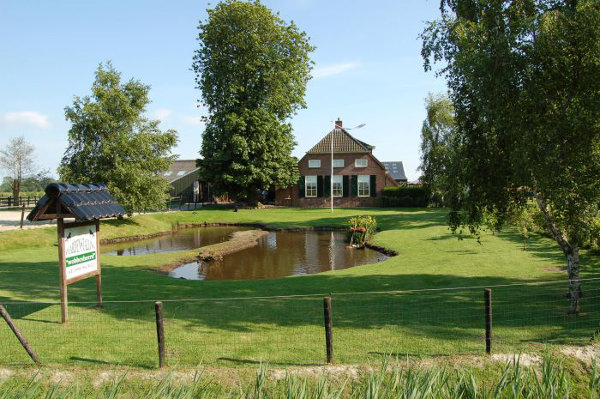
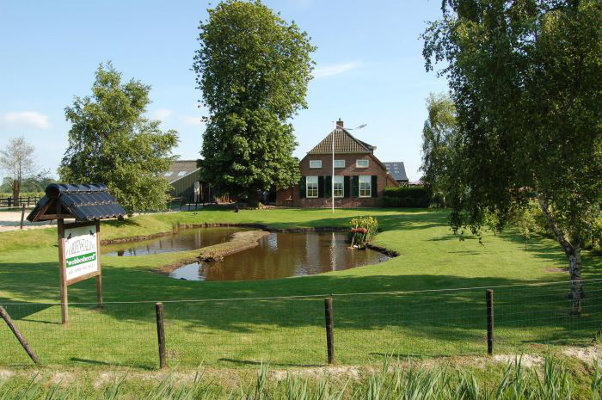
Faciliteiten

diff --git a/faciliteiten.php b/faciliteiten.php
@@ -77,14 +77,17 @@
                         <li data-target="#myCarousel" data-slide-to="6"></li>
                         <li data-target="#myCarousel" data-slide-to="7"></li>
                         <li data-target="#myCarousel" data-slide-to="8"></li>
+						<li data-target="#myCarousel" data-slide-to="9"></li>
+						<li data-target="#myCarousel" data-slide-to="10"></li>
+						<li data-target="#myCarousel" data-slide-to="11"></li>
                     </ol>
 
                     <!-- Wrapper for slides -->
                     <div class="carousel-inner" role="listbox">
                         <div class="item active">
-                            <img src="upload/DSC_0018.jpg" alt="Boederij" width="460" height="345">
+                            <img src="upload/DSC_0018-slide.jpg" alt="Boerderij" title="Boerderij" width="602" height="400">
                             <div class="carousel-caption">
-                                <h3>Boederij</h3>
+                                <h3>Boerderij</h3>
                                 <p>De boerderij is onze droge stek, in het achterste gedeelte ingedeeld in twee ruimtes.</p>
 								<ul>
 									<li>De kantine</li>
@@ -94,70 +97,91 @@
                         </div>
 
                         <div class="item">
-                            <img src="upload/DSC_0004.jpg" alt="Stapmolen" title="Stapmolen" width="460" height="345">
+                            <img src="upload/DSC_0013-slide.jpg" alt="Overdekte rijhal" title="Overdekte rijhal" width="602" height="400">
+                            <div class="carousel-caption">
+                                <h3>Overdekte rijhal</h3>
+                                <p>In de rijhal van 20 x 40 meter kan ten alle tijden gereden worden.</p>
+								<p>In deze hal zijn 20 ruime boxen en een dubbele spoelplaats aanwezig.</p>
+                            </div>
+                        </div>
+
+						<div class="item">
+                            <img src="upload/DSC_0004-slide.jpg" alt="Stapmolen" title="Stapmolen" width="602" height="400">
                             <div class="carousel-caption">
                                 <h3>Stapmolen</h3>
                                 <p>Na het rijden kunnen de paarden uitstappen in de molen.</p>
                             </div>
                         </div>
 
-                        <div class="item">
-                            <img src="upload/DSC_0006.jpg" alt="Groepstal" title="Groepstal" width="460" height="345">
+						<div class="item">
+                            <img src="upload/DSC_0041-slide.jpg" alt="Grote buitenbak" title="Grote buitenbak" width="602" height="400">
                             <div class="carousel-caption">
-                                <h3>Groepstal</h3>
-                                <p>De groepsstal biedt ruimte voor 5 groepen van 8 paarden.</p>
+                                <h3>Grote buitenbak</h3>
+                                <p>De grote rijbak heeft een afmeting van 25 bij 60 meter, omheind met sterke stevige balken. De rijbak is voorzien van  6 lichtmasten om goede rijomstandigheden te garanderen.</p>
                             </div>
                         </div>
 
-
-                        <div class="item">
-                            <img src="upload/DSC_0041.jpg" alt="Rijbak" title="Rijbak" width="460" height="345">
+						<div class="item">
+                            <img src="upload/DSC_0038(1)-slide.jpg" alt="Kleine buitenbak" title="Kleine buitenbak" width="602" height="400">
                             <div class="carousel-caption">
-                                <h3>Rijbak</h3>
-                                <p>De grote rijbak heeft een afmeting van 25 bij 60 meter, omheind met sterke stevige balken.</p>
+                                <h3>Kleine buitenbak</h3>
+                                <p>De 'kleine' bak is niet echt klein (20 bij 40 meter) maar wordt bij ons in de eerste plaats gebruikt om te longeren, de paarden dagelijks te luchten. Er kan natuurlijk ook in gereden worden.</p>
+                            </div>
+                        </div>
+
+						<div class="item">
+                            <img src="upload/DSC_0009-slide.jpg" alt="Paddock" title="Paddock" width="602" height="400">
+                            <div class="carousel-caption">
+                                <h3>Paddock</h3>
+                                <p>De paddock geeft ruimte aan de paarden om hun benen even lekker te strekken. Vooral in de winter kunnen ze dan even lekker luchten.</p>
                             </div>
                         </div>
 
                         <div class="item">
-                            <img src="upload/linkerstal.jpg" alt="indi10" title="indi10" width="460" height="345">
+                            <img src="upload/DSC_0006-slide.jpg" alt="Groepsstal voor jonge paarden" title="Groepsstal voor jonge paarden" width="602" height="400">
                             <div class="carousel-caption">
-                                <h3>Individuele bakken 10</h3>
-                                <p>Deze stal bestaat uit 10 individuele boxen die direct gelegen zijn aan de spoelplaats.</p>
+                                <h3>Groepsstal voor jonge paarden</h3>
+                                <p>Deze huisvesting is bedoeld voor veulens tot 3 jarigen. Elke groep heeft een eigen watervoorziening. Ook deze stal heeft zijn eigen paddock.</p>
                             </div>
                         </div>
 
                         <div class="item">
-                            <img src="upload/DSC_0008.jpg" alt="indi30" title="indi30" width="460" height="345">
+                            <img src="upload/DSC_0014(1)-slide.jpg" alt="Individuele stallen (30 boxen)" title="Individuele stallen (30 boxen)" width="602" height="400">
                             <div class="carousel-caption">
-                                <h3>Individuele bakken 30</h3>
-                                <p>Achter deze geisoleerde stal bevinden zich twee paddocks waar de paarden in de winterperiode dagelijks naar buiten gaan..</p>
+                                <h3>Individuele stallen (30 boxen)</h3>
+                                <p>In deze stal hebben wij 30 ruime boxen. Achter deze geisoleerde stal bevinden zich twee paddocks waar de paarden in de winterperiode dagelijks naar buiten gaan.</p>
                             </div>
                         </div>
 
-
                         <div class="item">
-                            <img src="upload/bakachterschuur.jpg" alt="bak" title="bak" width="460" height="345">
+                            <img src="upload/linkerstal-slide.jpg" alt="Individuele stallen (10 boxen)" title="Individuele stallen (10 boxen)" width="602" height="400">
                             <div class="carousel-caption">
-                                <h3>Achterschuur</h3>
-                                <p>De kleine bak ligt direct aan de stallen en heeft hier tussen ook de buiten spoelplaats liggen.</p>
+                                <h3>Individuele stallen (10 boxen)</h3>
+                                <p>Deze stal bestaat uit 10 individuele boxen bedoeld voor de kleinere paarden en pony's. Ook hebben wij in deze stal een kraambox die voorzien is van een camera.</p>
                             </div>
                         </div>
 
-
                         <div class="item">
-                            <img src="upload/DSC_0007.jpg" alt="Trailer" title="Trailer" width="460" height="345">
+                            <img src="upload/DSC_0002-slide.jpg" alt="Groepsstal" title="Groepsstal" width="602" height="400">
                             <div class="carousel-caption">
-                                <h3>Trailer</h3>
-                                <p>Ja, de trailer, altijd bekend als het apparaat dat altijd in de weg staat en alleen dan gebruikt wordt als de afstand met het paard te groot is.</p>
+                                <h3>Groepsstal</h3>
+                                <p>De ronde stal is een zeer ruime stal waar we een groep van 10-12 paarden zich kunnen huisvesten. Deze groepsstal is bedoeld voor veulens tot 3 jarigen.</p>
                             </div>
                         </div>
 
-
-                        <div class="item">
-                            <img src="upload/DSC_0027(1).jpg" alt="Weide" title="Weide" width="460" height="345">
+						<div class="item">
+                            <img src="upload/DSC_0027(1)-slide.jpg" alt="Weide" title="Weide" width="602" height="400">
                             <div class="carousel-caption">
                                 <h3>Weide</h3>
                                 <p>Wobbesheerd beschikt over 6 hectare weide op de locatie zelf en beschikt ook over 55 hectare goede klei grond voor het weiden van jonge paarden tot 3 jaar.</p>
+                            </div>
+                        </div>
+
+                        <div class="item">
+                            <img src="upload/DSC_0007-slide.jpg" alt="Trailerstalling" title="Trailerstalling" width="602" height="400">
+                            <div class="carousel-caption">
+                                <h3>Trailerstalling</h3>
+                                <p>Ja, de trailer, altijd bekend als het apparaat dat altijd in de weg staat en alleen dan gebruikt wordt als de afstand met het paard te groot is.</p>
                             </div>
                         </div>
 					</div>
